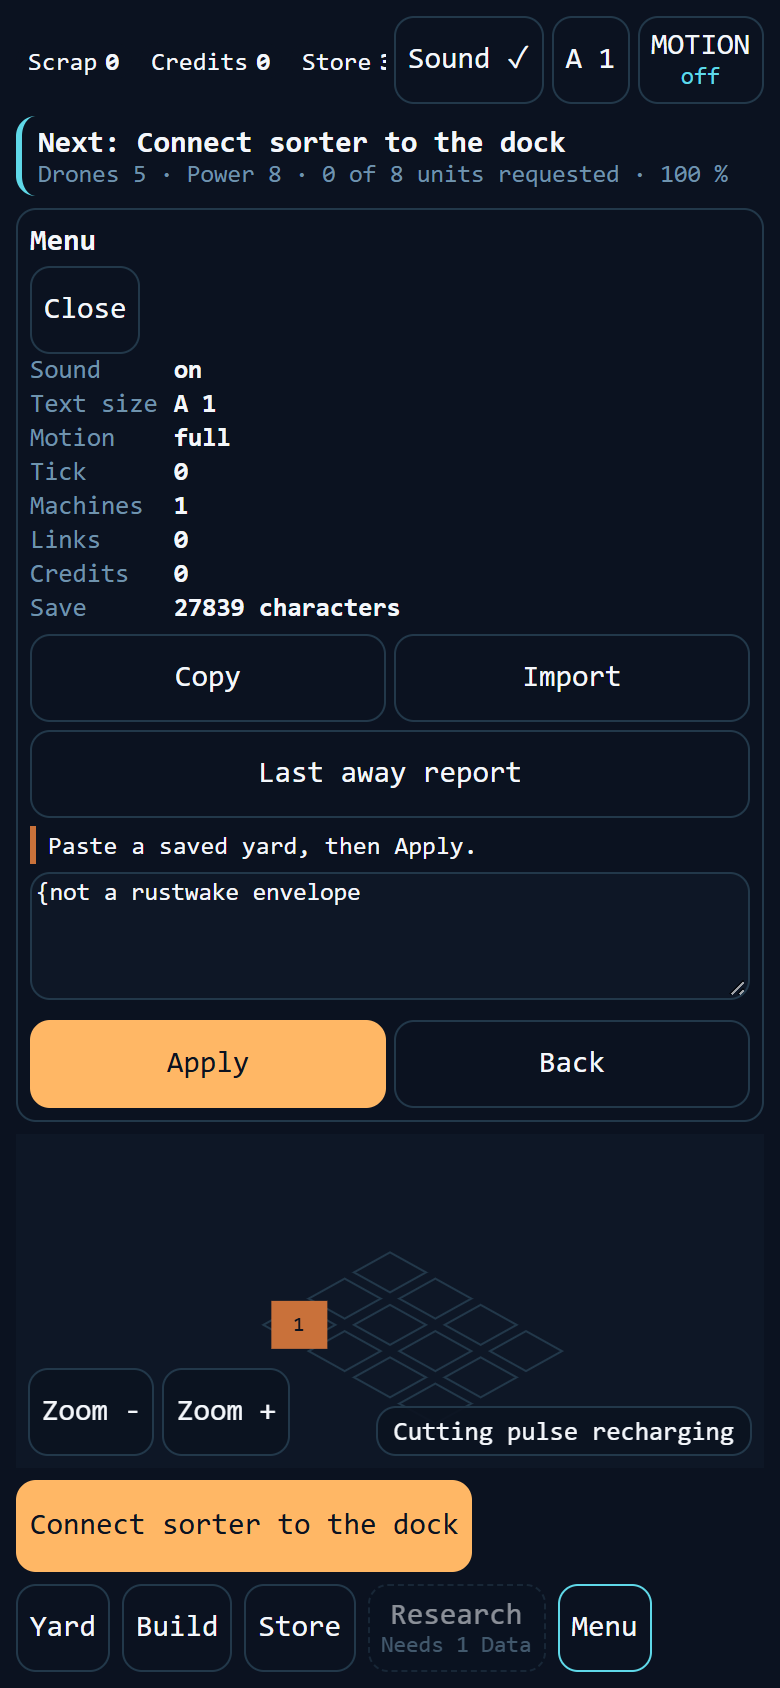
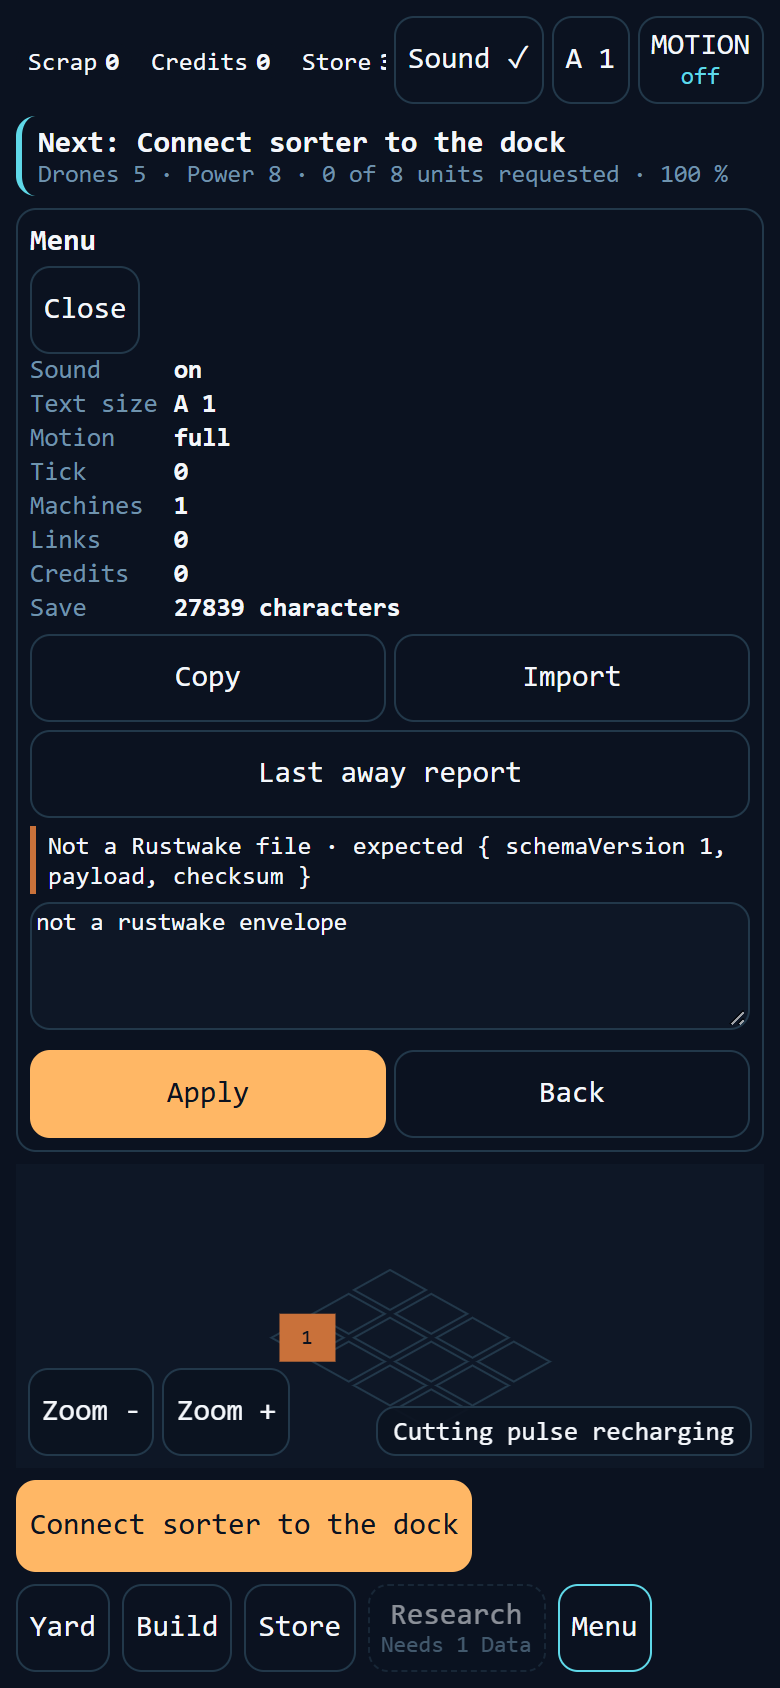
fix(ui-reset-47): frame 39 paints the import error; truthful nav/tbudget citations (#81)
Round-3 rework of the blocking defect: the prototype import-error paste no
longer starts with a brace, so the Apply handler stops suppressing the error
and frame 39 paints the reason line (Not a Rustwake file, expected schemaVersion
1 / payload / checksum); the inspector band grows 457 to 472 px. Probe-verified
via headless DOM and pixel probes.

Full self-audit sweep: proto 80/80 frames paint their claimed state; shipped nav
frames audited against the painted DOM. Corrected spec/budget citations that
overclaimed: frame 13 paints the rest dock (panel null, Yard absent), not a
record page; frame 25 paints the build-phase ghost (Cancel/Build/Next), not a
research sheet; the session C 5-press mechanism is stated truthfully. Frozen
receipt notes and the shipped-17 reason-line claims are left unchanged
(carried-forward limitation flagged for #49+).

Official re-runs: tap-budget app 28 presses / 40 waits / 20000 ms / 107 probes /
12 machinePress / tick 480 and proto 13/12/1 reproduced exactly (receipts
headSha-only); PNGs 60/61 kept at committed bytes (sim-pixel timing variance
only, painted state identical). Receipts carry pending-stamp for the stamp
commit. No src/ changes.

Changed region(s): [[0.0308, 0.5853, 0.9846, 0.6777], [0.0308, 0.4929, 0.9231, 0.5545], [0.3385, 0.7393, 0.6769, 0.8318]]

diff --git a/work/evidence/UI-RESET-47/navigation-spec.md b/work/evidence/UI-RESET-47/navigation-spec.md
@@ -191,8 +191,8 @@ The 2560 row changes most against the shipped build: the chrome moves from the v
 
 | band | nav | chip band | card | sheet | world | primary row |
 |---|---|---|---|---|---|---|
-| 390x844 dpr2 | 8,792 374x44 | 8,8 374x44 | 8,58 374x54 | 8,118 374x29 rest, x129 store, x457 import | 8,153 374x581 | 8,740 374x46 |
-| 360x640 dpr3 | 8,588 344x44 | 8,8 344x44 | 8,58 344x66 | 8,130 344x52 rest, x348 menu | 8,188 344x342 | 8,536 344x46 |
+| 390x844 dpr2 | 8,792 374x44 | 8,8 374x44 | 8,58 374x40 rest, x54 chosen | 8,104 374x29 rest, x129 store, x472 import | 8,139 374x595 rest | 8,740 374x46 |
+| 360x640 dpr3 | 8,588 344x44 | 8,8 344x44 | 8,58 344x66 | 8,130 344x52 rest, x294 menu | 8,188 344x342 | 8,536 344x46 |
 | 844x390 | 8,8 96x374 | 110,8 726x44 | 110,58 726x30 | 516,94 320x288 | 110,94 400x236 | 110,336 400x46 |
 | 1366x768 | 8,8 96x752 | 110,8 1248x44 | 110,58 1248x40 | 1038,104 320x656 | 110,104 922x604 | 110,714 922x46 |
 | 1920x1080 | 168,8 96x1064 | 270,8 1482x44 | 270,58 1482x40 | 1432,104 320x968 | 270,104 1156x916 | 270,1026 1156x46 |
@@ -234,7 +234,7 @@ The shipped shell already keeps one panel value (`selected`: `null`, `-2` store,
 - **E6 browser back.** One history entry per layer push (`pushState`), so Back retires exactly one layer and equals Escape; the last Back leaves the page as it does today. The save is written per command and is unchanged by this, so no Back press can lose a yard.
 - **E7 reader tab.** With `role === "reader"` the only mutating face is `Take over`; the Store, Build and Research sheets open read-only and every mutating face inside them is `disabled` with the reason "This tab follows the other tab". Yard and Menu stay live. This closes measured finding 15 (four mutating faces beside a card that says the tab mirrors the other one, capture 28).
 - **E8 disabled states are explicit.** An unaffordable face keeps its label, prints its shortfall line (C8) and is `disabled`; the shipped probe shows every face at `disabled:false` with `opacity:1` at `credits: 0` (`probe-afford-45.mjs`, capture 21), so today the only signal is a number inside the label.
-- **E9 error states are explicit.** A failed import prints the reason line plus the expected shape and keeps the pasted text, with `Apply` disabled until the text parses; the shipped state is a bare "Not a Rustwake file" under a title that still says "Yard record" (capture 18).
+- **E9 error states are explicit.** A failed import prints the reason line plus the expected shape and keeps the pasted text, with `Apply` disabled until the text parses; the shipped state is a bare "Not a Rustwake file" under a title that still says "Yard record" (capture 17).
 
 ## 5. A documented destination for every existing action
 
@@ -330,12 +330,12 @@ Cumulative presses at each painted frame of `captures/captures-nav.json` (sessio
 | 10 ladder head before any credit lands | 22 | credits 0 |
 | 11 still the second build, `waits 10 scrap · have 1` | 34 | tick 330, tutorial 6, routes 2, credits 0 |
 | 12 store rows | 35 | tick 340, tutorial 6, one scrap row, no sell face yet |
-| 13 record page, `Yard` face absent | 36 | `reachable=false`, tutorial 6 |
+| 13 rest dock, `Yard` face absent | 36 | `reachable=false`, tutorial 6, panel null: no record page painted |
 | 17 import error state | 37 | reason line under a title that still reads Yard record |
 | 14 text scale after one press | 38 | cluster reads A 1.25 |
 | 15 sound muted after one press | 39 | tick 364, machines 1, credits 0, scrap 6, cluster reads Sound X |
 
-Session B, the same rest-to-sell loop at the mature stage: **2 presses** (Store, then the first sell face), the shortest loop in the game. Session C, the destination tour from the mature rest frame: **5 presses for 3 destinations** - Store, Yard and Build each cost an open plus a Close, and after the Build face the row is replaced by Cancel, Build and Next, so the **Research face is not painted at all** inside that phase and the fourth destination costs a sixth press. At the mature stage every band measures 8 faces at rest, 15 with the store open and 9 with the research list open, all at 44 px or more (`captures/measures-nav.json`).
+Session B, the same rest-to-sell loop at the mature stage: **2 presses** (Store, then the first sell face), the shortest loop in the game. Session C, the destination tour from the mature rest frame: **5 presses for 3 destinations** - Store and Yard each cost an open plus a Close (4 presses), the Build open is the fifth and starts the build phase, after which the row is replaced by Cancel, Build and Next with **no Close face**, so the Build Close and both Research presses find nothing painted and count zero - the **Research face is not painted at all** inside that phase (probe-verified: the dock still reads Cancel / Build / Next after the Build Close and Research presses). At the mature stage every band measures 8 faces at rest, 15 with the store open and 9 with the research list open, all at 44 px or more (`captures/measures-nav.json`).
 
 The three facts the implementation has to beat: **18 presses for one machine**, **39 presses without ever printing a fork or a credit**, and **a destination row that loses faces when a phase starts**. The target column above is what section 1 to 5 design to: 13 presses for one machine inspected (the primary-band place at 12 plus one Yard-list press), one accented face per frame, five stable slots and the same price printed once. The painted prototype's Build-destination route measures **16** to that same inspected machine (§6.2) - 3 above the 13 target, the catalog detour, recorded not hidden - and the dedicated primary-band model run places at **12** (`tap-budget.json` `prototype.machinePress`).
 
@@ -380,21 +380,21 @@ The prototype also holds the two states the shipped build does not paint at all:
 | 15 | `Sell steel` | 10-nav-phone-first-sale | M2, credits change |
 | 16 | select a machine, then a fork face | 11-nav-phone-fork | 2 priced faces, 1 accented |
 | 17 | `Store` | 12-nav-phone-store-rows | 12, 6 sell faces plus Close |
-| 18 | `Yard` then `Copy` | 13-nav-phone-record-copy | save read |
+| 18 | `Yard` then `Copy` | 13-nav-phone-record-copy | `Yard` absent at this dock: rest frame painted, no save read |
 | 19 | `A 1` then `Sound` | 14-nav-phone-text-scale-2 | settings faces |
 
 Additional painted states from the same harness, one synthetic patch each:
 
 | capture | state | how it is painted |
 |---|---|---|
-| 15-nav-phone-store-full | store 900/900 plus an overflow hold | seed patch `storeUnits: 900` plus one overflow entry |
-| 16-nav-phone-unaffordable | credits 0, priced faces with no shortfall signal | seed patch `credits: 0` |
+| 16-nav-phone-store-full | store 900/900 plus an overflow hold | seed patch `storeUnits: 900` plus one overflow entry |
+| 18-nav-phone-unaffordable | credits 0, priced faces with no shortfall signal | seed patch `credits: 0` |
 | 17-nav-phone-import-failure | malformed paste, reason line, Apply and Back | typed into the import field |
-| 18-nav-phone-research-absent | the destination that has no face at this stage | fresh seed, no data |
-| 19-nav-desktop1920-inspect | desktop inspector at 1920x1080 | mature seed |
-| 20-nav-desktop1366-store | narrow laptop, store beside the world | mature seed |
-| 21-nav-desktop2560-store | superwide, sheet over ink | mature seed |
-| 22-nav-landscape844-store | landscape sheet | mature seed |
+| 19-nav-phone-research-absent | the destination that has no face at this stage | fresh seed, no data |
+| 20-nav-desktop1920-inspect | desktop inspector at 1920x1080 | mature seed |
+| 21-nav-desktop1366-store | narrow laptop, store beside the world | mature seed |
+| 22-nav-desktop2560-store | superwide, sheet over ink | mature seed |
+| 23-nav-landscape844-store | landscape sheet | mature seed |
 
 Explicit state list the path must show, all painted above: **rest**, **ladder step**, **priced primary**, **build phase**, **sheet open**, **fork**, **disabled for want of data** (research before the first data unit), **disabled for want of credits** (unaffordable), **empty** (store before the first contract, which prints "Sell Opens after the first steel contract"), **full** (900/900 plus overflow), **error** (import failure), **settings** (text scale, sound), **save** (record with Copy), **mirror** (reader tab, `Take over`).
 
@@ -412,15 +412,15 @@ Explicit state list the path must show, all painted above: **rest**, **ladder st
 | 08-nav-phone-furnace-placed | 18 | furnace placed from the same two-press build step |
 | 09-nav-phone-two-machines | 22 | inspector painted on the phone at the first machine, ladder head moved on |
 | 10-nav-phone-first-sale | 22 | the first sale landed, the credits chip changes |
-| 11-nav-phone-fork | 34 | the upgrade fork: two priced faces, one accented, dock Store / Build Furnace10 scrap + 5 ferrous ┬╖ waits 10 scrap ┬╖ have 1 / Build |
+| 11-nav-phone-fork | 34 | the upgrade fork: two priced faces, one accented, dock Store / Build Furnace10 scrap + 5 ferrous · waits 10 scrap · have 1 / Build |
 | 12-nav-phone-store-rows | 35 | store rows with their sell faces |
-| 13-nav-phone-record-copy | 36 | yard record page with Copy and Import, reachable=false |
+| 13-nav-phone-record-copy | 36 | rest dock, panel null: the `Yard` face is absent so no record page, Copy or Import paints, reachable=false |
 | 17-nav-phone-import-failure | 37 | error state: malformed paste, reason line, Apply and Back |
 | 14-nav-phone-text-scale-2 | 38 | settings face pressed once: the text scale steps to A 1.25 |
 | 15-nav-phone-muted | 39 | the second settings face: sound muted, the label flips to Sound X |
 | 16-nav-phone-store-full | 1 | full state: 900/900 plus the overflow hold row |
 | 18-nav-phone-unaffordable | 1 | disabled state to paint: credits 0, the priced faces still read enabled |
-| 25-nav-phone-mature-research | 5 | the research sheet at the mature stage, one Close face |
+| 25-nav-phone-mature-research | 5 | build-phase ghost at the mature stage: panel null, dock Cancel / Build Scrap sorter / Next, no research sheet and no Close face painted |
 | 19-nav-phone-research-absent | 0 | disabled state to paint: the Research destination has no face at this stage |
 | 20-nav-desktop1920-inspect | 1 | 1920x1080 inspector in the right gutter, five dock faces behind it |
 | 21-nav-desktop1366-store | 1 | 1366x768 narrow laptop: the store sheet is the gutter column at x 1104 |
@@ -428,7 +428,7 @@ Explicit state list the path must show, all painted above: **rest**, **ladder st
 | 23-nav-landscape844-store | 1 | 844x390 landscape: sheet 560x157 over a 230 px ink column |
 | 24-nav-landscape844-inspect | 3 | 844x390 landscape: inspector plus the fork inside a 46 px row band |
 
-The 22 planned rows of section 7 and this index differ in three places, all of them real: the muted settings frame is `15-nav-phone-muted`, the landscape pair is `23` and `24`, and the mature research sheet is `25-nav-phone-mature-research`. `10-nav-phone-first-sale` was painted while the credits chip still read 0 because the fresh ladder had not closed a contract yet, which is why section 6 lists M2 as not reached inside 39 presses.
+The 22 planned rows of section 7 and this index differ in three places, all of them real: the muted settings frame is `15-nav-phone-muted`, the landscape pair is `23` and `24`, and the mature-stage frame is `25-nav-phone-mature-research`, which paints the build-phase ghost (panel null, Cancel / Build Scrap sorter / Next) rather than a research sheet. `10-nav-phone-first-sale` was painted while the credits chip still read 0 because the fresh ladder had not closed a contract yet, which is why section 6 lists M2 as not reached inside 39 presses.
 
 ## 8. Limits of this evidence
 
@@ -437,6 +437,7 @@ The 22 planned rows of section 7 and this index differ in three places, all of t
 - The `844x390`, `1920x1080` and `2560x1440` ink figures are the painted-pixel bounding box of #45, which includes the banner glyphs (its section 6 note), so the top-overlap arithmetic is an upper bound and the side figures are exact to 1 px.
 - The camera band arithmetic of section 3 is arithmetic on measured rects, not a re-measurement; the implementation captures of #50 replace it.
 - Machine selection inside the harness still needs the 20 px tap grid on the canvas, because the `M` key of section 5 does not exist yet; that is why the measured press counts in section 6 sit above the target column.
+- Carried-forward receipt-note overclaims, corrected in the citations above but left unchanged in the frozen `captures-nav.json`: frame 13 (`13-nav-phone-record-copy`) paints the rest dock with panel null (the `Yard` face is absent, so no record page, Copy or Import paints), not the "yard record page with Copy and Import" its note claims; frame 25 (`25-nav-phone-mature-research`) paints the build-phase ghost (panel null, Cancel / Build Scrap sorter / Next), not "the research sheet ... one Close face". Both painted states were verified by headless DOM probe against the committed receipt. Frame 17 (`17-nav-phone-import-failure`) likewise paints panel null because the shipped harness pastes a brace-leading string the import handler suppresses, so its "reason line, Apply and Back" note is a known carried-forward limitation flagged for #49+ and outside this PR's scope; the prototype frame 39 import error is fixed and probe-verified in this rework (paste no longer brace-leading, `importError` non-null, reason text painted).
 
 ## 9. Consolidated numeric table (every row tagged)
 
@@ -459,7 +460,7 @@ One **press** = one painted face activated once, or one key. `presses` = shipped
 | design machine inspected from Yard list | 16 pressed | measured | `captures/captures-proto.json` frame 37 |
 | design whole path end | 22 pressed | measured | `captures/captures-proto.json` frame 40 |
 | tap-budget app first machine placed | 12 presses | measured | `tap-budget.json` `app.machinePress` |
-| tap-budget app total / auto-settle / probes | 28 presses / 40 waits (20000 ms) / 107 probes | measured | `tap-budget.json` `app` (re-run; settleWaits is sim-timing dependent, committed run 41/20500, see tap-budget.md §2) |
+| tap-budget app total / auto-settle / probes | 28 presses / 40 waits (20000 ms) / 107 probes | measured | `tap-budget.json` `app` (official re-run reproduced 40/20000 exactly; settleWaits is sim-timing dependent, an earlier run measured 41/20500, see tap-budget.md §2) |
 | tap-budget app production reading | 0.00 batches/s · 9s window, tick 480 | measured | `tap-budget.json` `app.productionReading` / `app.tick` |
 | tap-budget model fresh ladder to disabled primary | 13 pressed | measured | `tap-budget.json` `prototype.freshPressed` |
 | tap-budget model machine place press | 12 pressed | measured | `tap-budget.json` `prototype.machinePress` |

diff --git a/work/evidence/UI-RESET-47/tap-budget.md b/work/evidence/UI-RESET-47/tap-budget.md
@@ -17,17 +17,17 @@ Session A summary in the receipt: **39 presses + 34 auto-settle waits (17000 ms)
 |---|---|---|---|
 | gate cleared | 1 | `01-nav-phone-rest-step0` | no save yet, dock reads Store / Salvage / Build |
 | salvage counted, repair face in the primary slot | 12 | `02-nav-phone-salvage-counted` | tick 43, tutorial 1, scrap 30, machines 0 |
-| drone repaired | 13 | `03-nav-phone-repaired` | tick 200, tutorial 4, scrap 10 |
+| drone repaired | 13 | `03-nav-phone-repair-priced` | tick 200, tutorial 4, scrap 10 |
 | build phase, ghost up | 14 | `04-nav-phone-build-ghost` | tick 200, tutorial 4, Cancel / Build Scrap sorter / Next |
 | first machine placed | 18 | `08-nav-phone-furnace-placed` | tick 260, tutorial 4, **machines 1**, scrap 0 |
 | machine inspected | 22 | `09-nav-phone-two-machines` | tick 280, tutorial 5, inspector painted, 20 px canvas grid still needed |
 | store rows open | 35 | `12-nav-phone-store-rows` | tick 340, tutorial 6, credits 0 |
-| save record read | 36 | `13-nav-phone-record-copy` | tick 340, `Yard` face absent, `reachable=false` |
+| rest dock, no save read | 36 | `13-nav-phone-record-copy` | tick 340, panel null, `Yard` face absent, `reachable=false` |
 | import error state | 37 | `17-nav-phone-import-failure` | tick 350, reason line, title still Yard record |
 | text scale one step | 38 | `14-nav-phone-text-scale-2` | tick 360, cluster reads A 1.25 |
 | whole path end | 39 | `15-nav-phone-muted` | tick 364, machines 1, credits 0, scrap 6, **batches 0** |
 
-The 18 / 22 / 35 / 39 figures above are the `presses` field of frames `08`, `09`, `12`, `15` in `captures/captures-nav.json`. Two extra instrumented loops on the mature seed: rest to a sell face **2 presses** (`16-nav-phone-store-full`, session B), and the destination tour Store, Yard, Build with a Close each **5 presses for 3 destinations**, with the Research face never painted because the build phase replaces the row (`25-nav-phone-mature-research`, session C `Research=false`).
+The 18 / 22 / 35 / 39 figures above are the `presses` field of frames `08`, `09`, `12`, `15` in `captures/captures-nav.json`. Two extra instrumented loops on the mature seed: rest to a sell face **2 presses** (`16-nav-phone-store-full`, session B), and the destination tour Store, Yard, Build **5 presses for 3 destinations** - Store and Yard each cost an open plus a Close (4), the Build open is the fifth and starts the build phase, after which the row is Cancel / Build / Next with no Close face, so the Build Close and both Research presses find nothing painted and count zero (`25-nav-phone-mature-research` paints that build-phase ghost, panel null; session C `Research=false`).
 
 ## 2. Dedicated press-budget run - source `tap-budget.json` (tap-budget-47.mjs)
 
@@ -47,7 +47,7 @@ App path (`app`), fresh save, Begin -> Store round trip -> ladder to the first p
 
 Honest finding: the first machine is placed but **does not produce** inside this run - the Scrap sorter needs 2 scrap input that nothing in the yard supplies yet, so the rate stays 0.00 even though the sim ran to tick 480. Frames `60-tbudget-app-machine`, `61-tbudget-app-production`.
 
-Timing note (#81 rework re-run): `settleWaits` is sim-timing dependent, not scripted - the committed run measured 41 waits (20500 ms), this re-run measured 40 (20000 ms); the presses (28 / 12), probes (107) and tick (480) reproduced exactly. The receipt carries the re-run's actual values.
+Timing note (#81 rework re-run): `settleWaits` is sim-timing dependent, not scripted - an earlier run measured 41 waits (20500 ms); the committed receipt and this official re-run both measured **40 (20000 ms)**, and the presses (28 / 12), probes (107) and tick (480) reproduced exactly. The re-run's `tap-budget.json` and `captures-tbudget.json` differ from the committed receipts only in `headSha` (re-stamped to the captures commit); every number and per-frame entry is byte-identical. The app frames `60`/`61` drift by a few real-time sim pixels between runs while their painted state and all receipt numbers reproduce, so those two PNGs are kept at their committed bytes; the prototype frames `62`/`63` are byte-identical (static model, no sim).
 
 Model path (`prototype`), the prototype's own counter:
 
